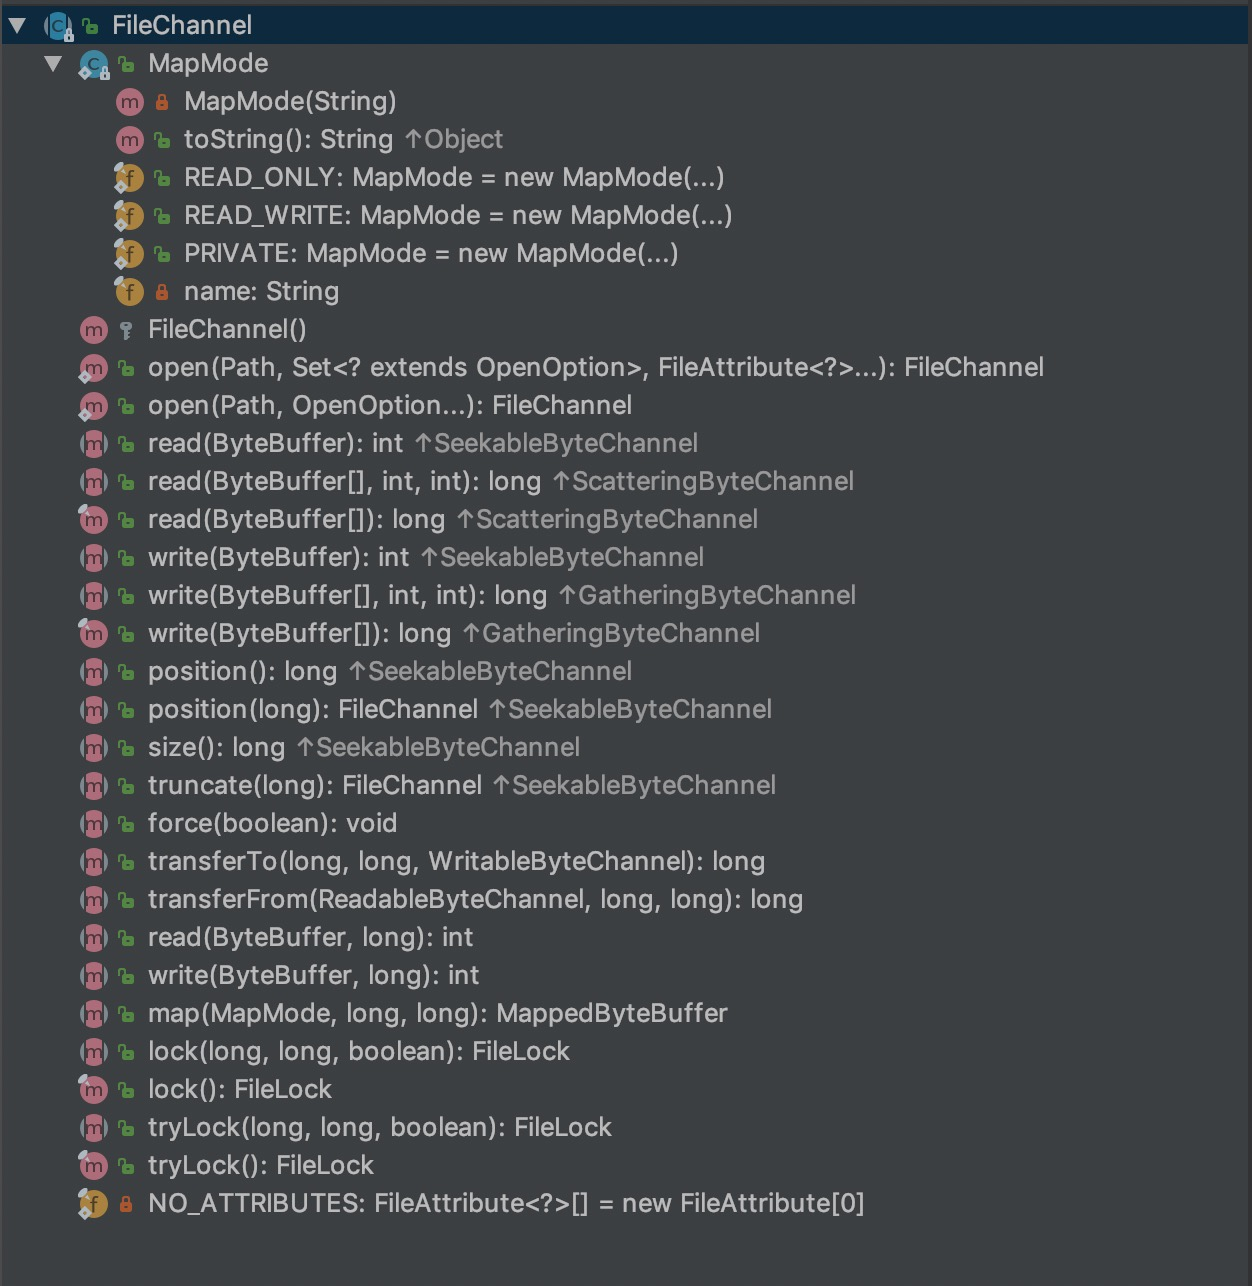
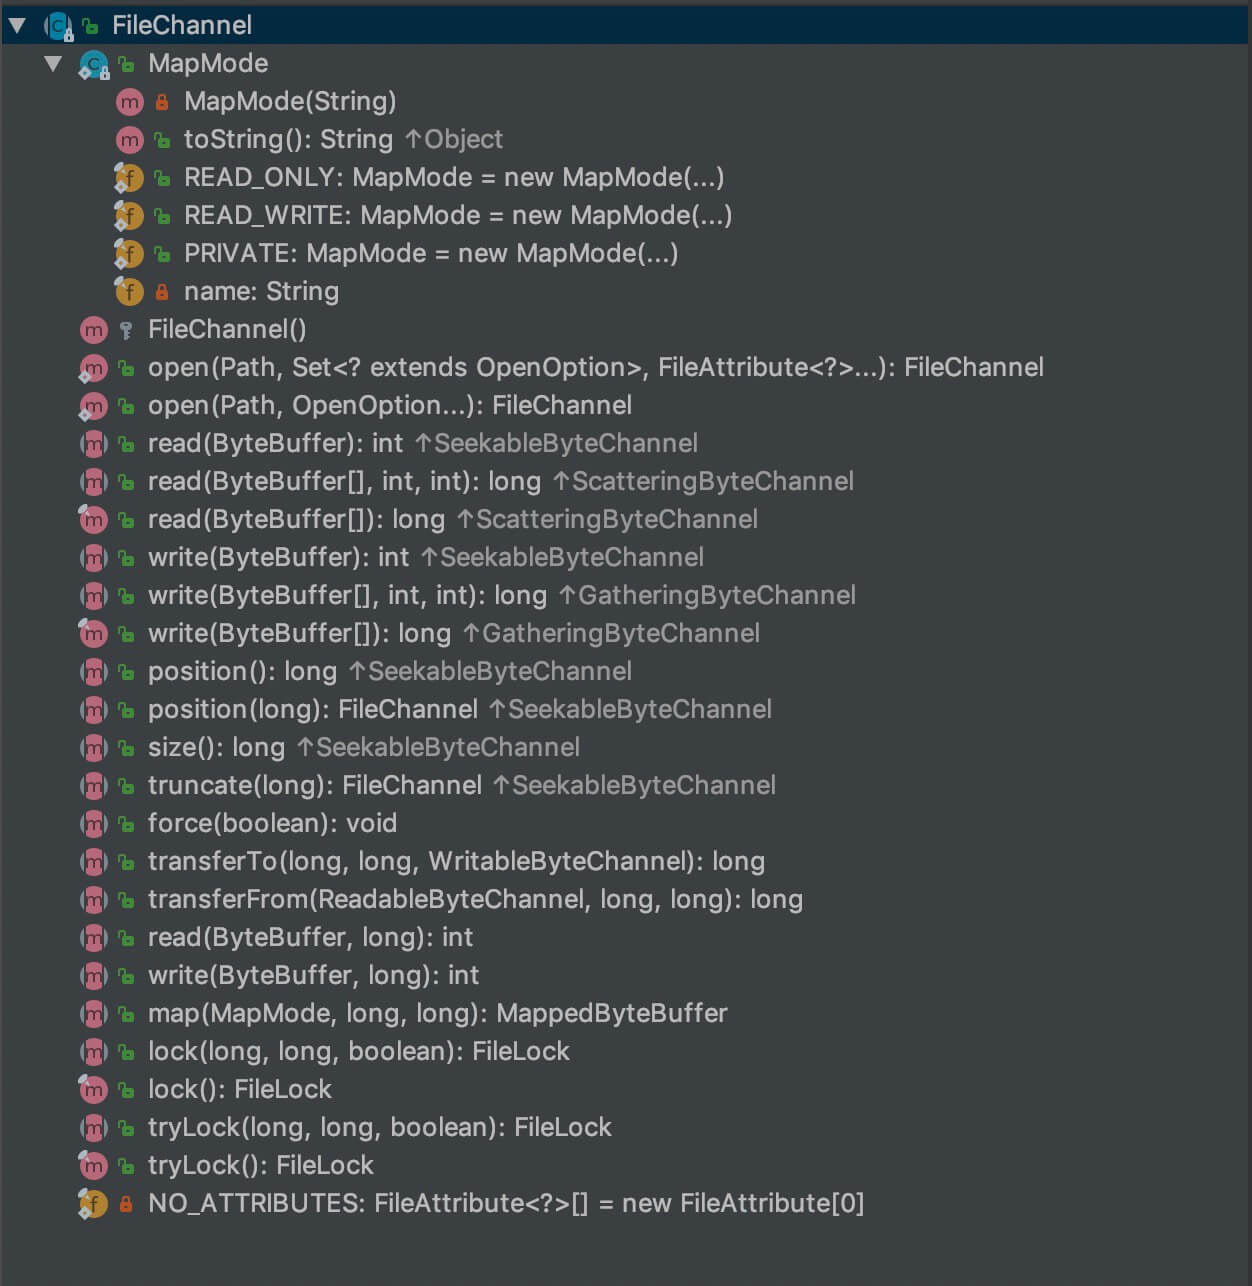
Site updated: 2019-07-02 00:23:36

Changed region(s): [[0.0623, 0.0311, 0.0935, 0.0622], [0.0312, 0.0, 0.0623, 0.0311]]

diff --git a/3c79e6b3.html b/3c79e6b3.html
@@ -98,13 +98,13 @@
 <meta property="og:site_name" content="从入门到放弃">
 <meta property="og:description" content="前言上篇【从入门到放弃-Java】并发编程-NIO使用简单介绍了nio的基础使用，本篇将深入源码分析nio中channel的实现。 简介channel即通道，可以用来读、写数据，它是全双工的可以同时用来读写操作。这也是它与stream流的最大区别。 channel需要与buffer配合使用，channel通道的一端是buffer，一端是数据源实体，如文件、socket等。在nio中，通过chann">
 <meta property="og:locale" content="zh-Hans">
-<meta property="og:image" content="https://nc2era.com/undefined/1.jpg">
-<meta property="og:image" content="https://nc2era.com/undefined/2.jpg">
-<meta property="og:updated_time" content="2019-07-01T16:20:53.739Z">
+<meta property="og:image" content="https://nc2era.com/3c79e6b3/1.jpg">
+<meta property="og:image" content="https://nc2era.com/3c79e6b3/2.jpg">
+<meta property="og:updated_time" content="2019-07-01T16:21:08.754Z">
 <meta name="twitter:card" content="summary">
 <meta name="twitter:title" content="【从入门到放弃-Java】并发编程-NIO-Channel">
 <meta name="twitter:description" content="前言上篇【从入门到放弃-Java】并发编程-NIO使用简单介绍了nio的基础使用，本篇将深入源码分析nio中channel的实现。 简介channel即通道，可以用来读、写数据，它是全双工的可以同时用来读写操作。这也是它与stream流的最大区别。 channel需要与buffer配合使用，channel通道的一端是buffer，一端是数据源实体，如文件、socket等。在nio中，通过chann">
-<meta name="twitter:image" content="https://nc2era.com/undefined/1.jpg">
+<meta name="twitter:image" content="https://nc2era.com/3c79e6b3/1.jpg">
 
 
 
@@ -433,8 +433,8 @@
 <li>ServerSocketChannel：服务端网络数据读写通道，可以监听TCP连接。对每一个新进来的连接都会创建一个SocketChannel。</li>
 <li>DatagramChannel：UDP读写网络数据通道</li>
 </ul>
-<h2 id="FileChannel"><a href="#FileChannel" class="headerlink" title="FileChannel"></a>FileChannel</h2><img src="/undefined/1.jpg">
-<img src="/undefined/2.jpg">
+<h2 id="FileChannel"><a href="#FileChannel" class="headerlink" title="FileChannel"></a>FileChannel</h2><img src="/3c79e6b3/1.jpg">
+<img src="/3c79e6b3/2.jpg">
 <p>FileChannel是一个抽象类，它继承了AbstractInterruptibleChannel类，并实现了 SeekableByteChannel, GatheringByteChannel, ScatteringByteChannel接口。<br>具体的实现类主要是sun.nio.ch.FileChannelImpl。下面详细分析下FileChannelImpl中每个方法的具体实现。</p>
 <h2 id="FileChannelImpl"><a href="#FileChannelImpl" class="headerlink" title="FileChannelImpl"></a>FileChannelImpl</h2><h3 id="open"><a href="#open" class="headerlink" title="open"></a>open</h3><figure class="highlight java"><table><tr><td class="gutter"><pre><span class="line">1</span><br><span class="line">2</span><br><span class="line">3</span><br><span class="line">4</span><br><span class="line">5</span><br><span class="line">6</span><br><span class="line">7</span><br><span class="line">8</span><br><span class="line">9</span><br><span class="line">10</span><br><span class="line">11</span><br><span class="line">12</span><br><span class="line">13</span><br><span class="line">14</span><br><span class="line">15</span><br><span class="line">16</span><br><span class="line">17</span><br><span class="line">18</span><br><span class="line">19</span><br><span class="line">20</span><br><span class="line">21</span><br><span class="line">22</span><br><span class="line">23</span><br><span class="line">24</span><br><span class="line">25</span><br><span class="line">26</span><br><span class="line">27</span><br><span class="line">28</span><br><span class="line">29</span><br><span class="line">30</span><br><span class="line">31</span><br><span class="line">32</span><br><span class="line">33</span><br><span class="line">34</span><br><span class="line">35</span><br><span class="line">36</span><br><span class="line">37</span><br><span class="line">38</span><br><span class="line">39</span><br><span class="line">40</span><br><span class="line">41</span><br><span class="line">42</span><br><span class="line">43</span><br><span class="line">44</span><br><span class="line">45</span><br><span class="line">46</span><br><span class="line">47</span><br><span class="line">48</span><br><span class="line">49</span><br><span class="line">50</span><br><span class="line">51</span><br><span class="line">52</span><br><span class="line">53</span><br><span class="line">54</span><br><span class="line">55</span><br><span class="line">56</span><br><span class="line">57</span><br><span class="line">58</span><br><span class="line">59</span><br><span class="line">60</span><br><span class="line">61</span><br><span class="line">62</span><br><span class="line">63</span><br><span class="line">64</span><br><span class="line">65</span><br><span class="line">66</span><br><span class="line">67</span><br><span class="line">68</span><br><span class="line">69</span><br><span class="line">70</span><br><span class="line">71</span><br><span class="line">72</span><br><span class="line">73</span><br><span class="line">74</span><br></pre></td><td class="code"><pre><span class="line"><span class="function"><span class="keyword">private</span> <span class="title">FileChannelImpl</span><span class="params">(FileDescriptor var1, String var2, <span class="keyword">boolean</span> var3, <span class="keyword">boolean</span> var4, <span class="keyword">boolean</span> var5, Object var6)</span> </span>&#123;</span><br><span class="line">    <span class="comment">//主要记载操作系统维护的文件描述符</span></span><br><span class="line">    <span class="keyword">this</span>.fd = var1;</span><br><span class="line">    </span><br><span class="line">    <span class="comment">//是否可读</span></span><br><span class="line">    <span class="keyword">this</span>.readable = var3;</span><br><span class="line">    </span><br><span class="line">    <span class="comment">//是否可写</span></span><br><span class="line">    <span class="keyword">this</span>.writable = var4;</span><br><span class="line">    </span><br><span class="line">    <span class="comment">//是否以追加的方式打开</span></span><br><span class="line">    <span class="keyword">this</span>.append = var5;</span><br><span class="line">    </span><br><span class="line">    <span class="keyword">this</span>.parent = var6;</span><br><span class="line">    <span class="keyword">this</span>.path = var2;</span><br><span class="line">    </span><br><span class="line">    <span class="comment">//底层使用native的read和write来处理文件的</span></span><br><span class="line">    <span class="keyword">this</span>.nd = <span class="keyword">new</span> FileDispatcherImpl(var5);</span><br><span class="line">&#125;</span><br><span class="line"></span><br><span class="line"><span class="comment">//FileInputStream::getChannel 调用 FileChannelImpl.open(fd, path, true, false, this) 获取只读channel</span></span><br><span class="line"><span class="function"><span class="keyword">public</span> <span class="keyword">static</span> FileChannel <span class="title">open</span><span class="params">(FileDescriptor var0, String var1, <span class="keyword">boolean</span> var2, <span class="keyword">boolean</span> var3, Object var4)</span> </span>&#123;</span><br><span class="line">    <span class="keyword">return</span> <span class="keyword">new</span> FileChannelImpl(var0, var1, var2, var3, <span class="keyword">false</span>, var4);</span><br><span class="line">&#125;</span><br><span class="line"></span><br><span class="line"><span class="comment">//FileOutputStream::getChannel 调用 FileChannelImpl.open(fd, path, false, true, append, this) 获取只写channel</span></span><br><span class="line"><span class="function"><span class="keyword">public</span> <span class="keyword">static</span> FileChannel <span class="title">open</span><span class="params">(FileDescriptor var0, String var1, <span class="keyword">boolean</span> var2, <span class="keyword">boolean</span> var3, <span class="keyword">boolean</span> var4, Object var5)</span> </span>&#123;</span><br><span class="line">    <span class="keyword">return</span> <span class="keyword">new</span> FileChannelImpl(var0, var1, var2, var3, var4, var5);</span><br><span class="line">&#125;</span><br><span class="line"><span class="function"><span class="keyword">private</span> <span class="title">FileChannelImpl</span><span class="params">(FileDescriptor fd, String path, <span class="keyword">boolean</span> readable,</span></span></span><br><span class="line"><span class="function"><span class="params">                        <span class="keyword">boolean</span> writable, <span class="keyword">boolean</span> direct, Object parent)</span></span></span><br><span class="line"><span class="function"></span>&#123;</span><br><span class="line">    <span class="keyword">this</span>.fd = fd;</span><br><span class="line">    </span><br><span class="line">    <span class="comment">//是否可读</span></span><br><span class="line">    <span class="keyword">this</span>.readable = readable;</span><br><span class="line">    </span><br><span class="line">    <span class="comment">//是否可写</span></span><br><span class="line">    <span class="keyword">this</span>.writable = writable;</span><br><span class="line">    </span><br><span class="line">    <span class="comment">//对于从流创建的channel，在结束时要做不同的清理动作，（openJDK中才有，sun的jdk中没有）</span></span><br><span class="line">    <span class="keyword">this</span>.parent = parent;</span><br><span class="line">    </span><br><span class="line">    <span class="comment">//源文件的path</span></span><br><span class="line">    <span class="keyword">this</span>.path = path;</span><br><span class="line">    </span><br><span class="line">    <span class="comment">//是否使用DirectIO</span></span><br><span class="line">    <span class="keyword">this</span>.direct = direct;</span><br><span class="line">    </span><br><span class="line">    <span class="keyword">this</span>.nd = <span class="keyword">new</span> FileDispatcherImpl();</span><br><span class="line">    <span class="keyword">if</span> (direct) &#123;</span><br><span class="line">        <span class="keyword">assert</span> path != <span class="keyword">null</span>;</span><br><span class="line">        <span class="keyword">this</span>.alignment = nd.setDirectIO(fd, path);</span><br><span class="line">    &#125; <span class="keyword">else</span> &#123;</span><br><span class="line">        <span class="keyword">this</span>.alignment = -<span class="number">1</span>;</span><br><span class="line">    &#125;</span><br><span class="line"></span><br><span class="line">    <span class="comment">//当parent不存在时，则注册一个cleaner，否则交由parent做清理动作。</span></span><br><span class="line">    <span class="comment">// Register a cleaning action if and only if there is no parent</span></span><br><span class="line">    <span class="comment">// as the parent will take care of closing the file descriptor.</span></span><br><span class="line">    <span class="comment">// FileChannel is used by the LambdaMetaFactory so a lambda cannot</span></span><br><span class="line">    <span class="comment">// be used here hence we use a nested class instead.</span></span><br><span class="line">    <span class="keyword">this</span>.closer = parent != <span class="keyword">null</span> ? <span class="keyword">null</span> :</span><br><span class="line">        CleanerFactory.cleaner().register(<span class="keyword">this</span>, <span class="keyword">new</span> Closer(fd));</span><br><span class="line">&#125;</span><br><span class="line"></span><br><span class="line"><span class="comment">// Used by FileInputStream.getChannel(), FileOutputStream.getChannel</span></span><br><span class="line"><span class="comment">// and RandomAccessFile.getChannel()</span></span><br><span class="line"><span class="function"><span class="keyword">public</span> <span class="keyword">static</span> FileChannel <span class="title">open</span><span class="params">(FileDescriptor fd, String path,</span></span></span><br><span class="line"><span class="function"><span class="params">                               <span class="keyword">boolean</span> readable, <span class="keyword">boolean</span> writable,</span></span></span><br><span class="line"><span class="function"><span class="params">                               <span class="keyword">boolean</span> direct, Object parent)</span></span></span><br><span class="line"><span class="function"></span>&#123;</span><br><span class="line">    <span class="keyword">return</span> <span class="keyword">new</span> FileChannelImpl(fd, path, readable, writable, direct, parent);</span><br><span class="line">&#125;</span><br></pre></td></tr></table></figure>
 <ul>
